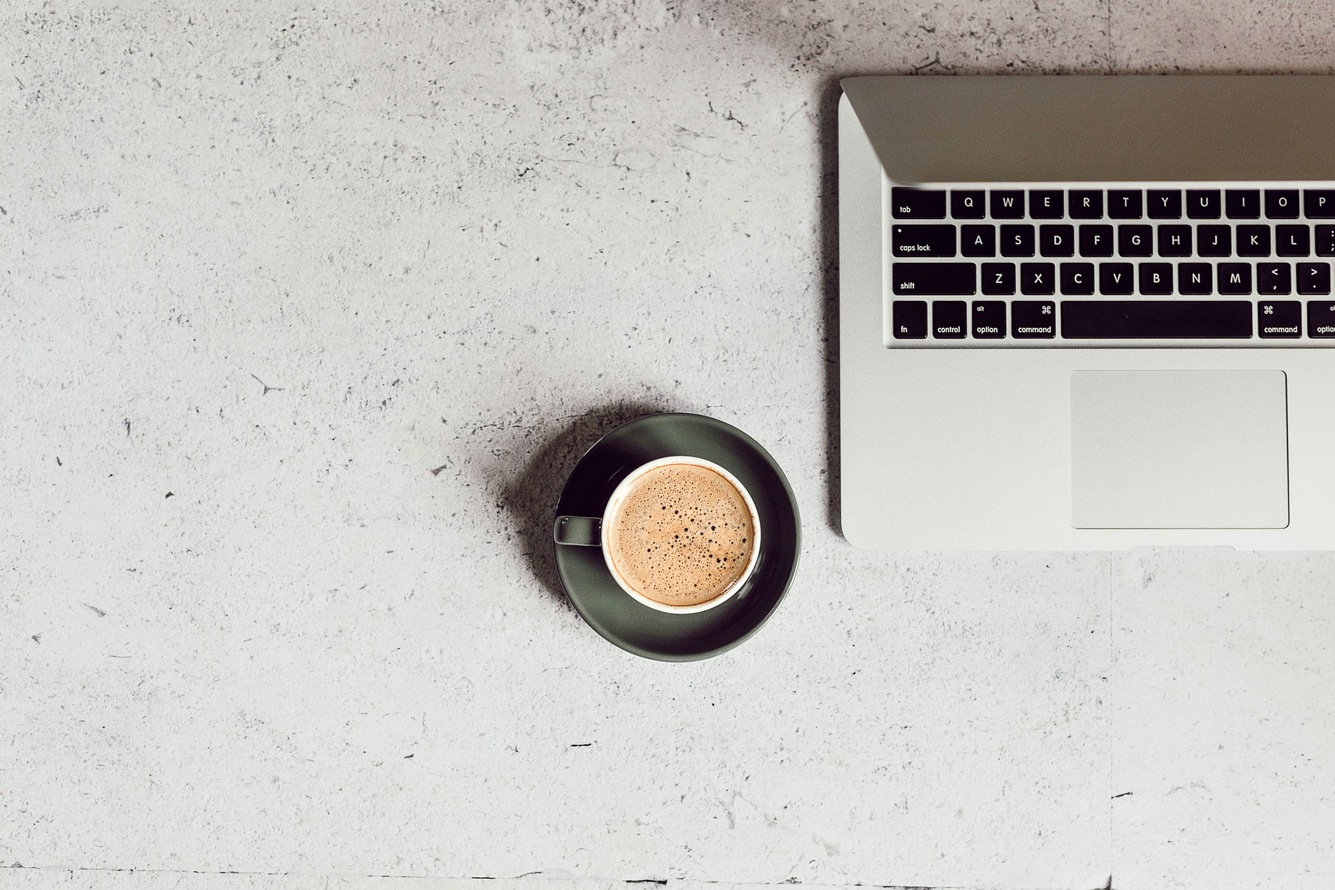
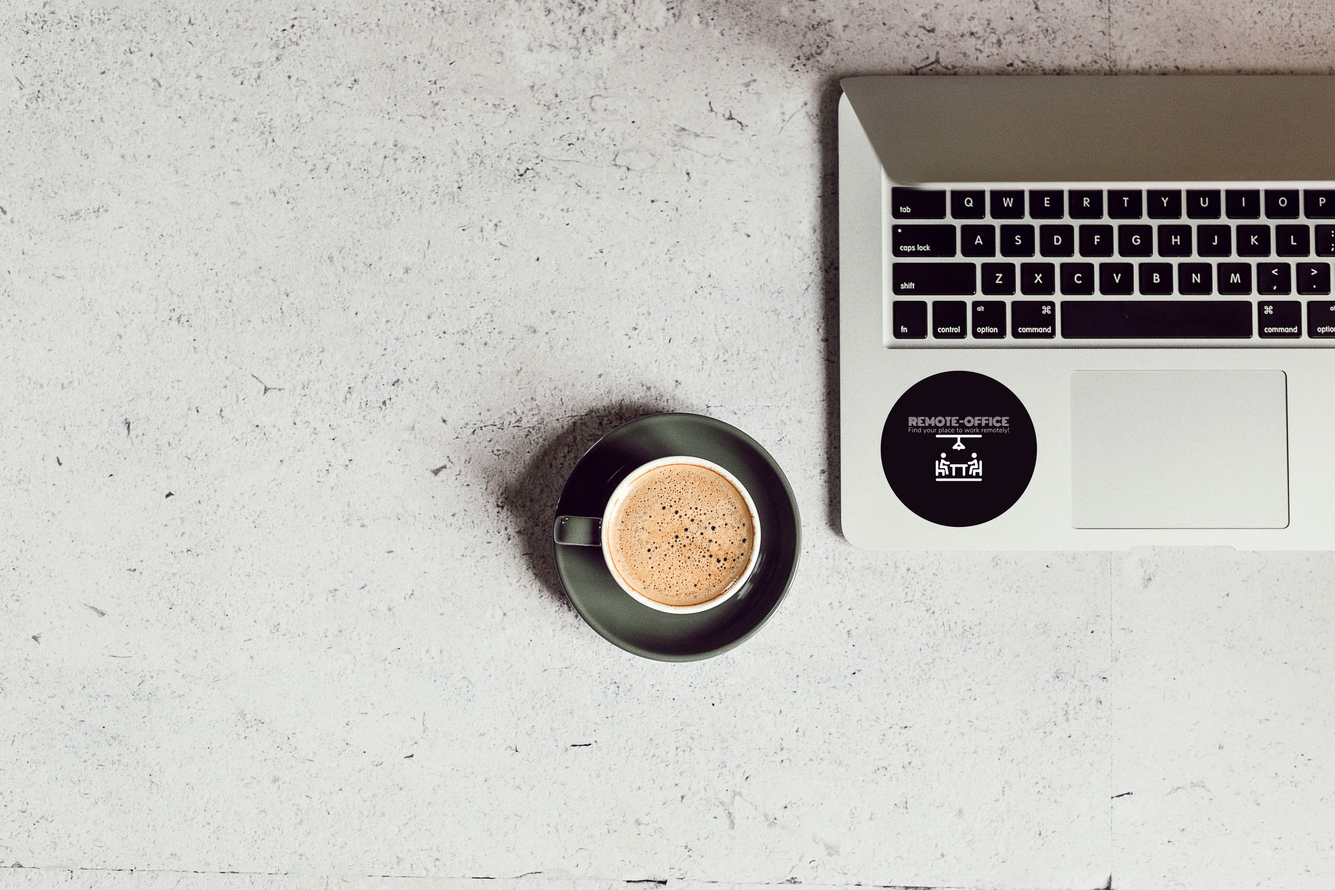
Implement background

Changed region(s): [[0.6562, 0.4062, 0.7812, 0.5938]]

diff --git a/public/stylesheets/style.css b/public/stylesheets/style.css
@@ -43,7 +43,7 @@ a {
 
 .main {
   /* position: relative; */
-  background-image: url(/images/liana-mikah.jpg);
+  background-image: url(/images/remote-office-logo-pc.jpg);
   min-height: 100vh;
   background-size: cover;
   background-position: center;
